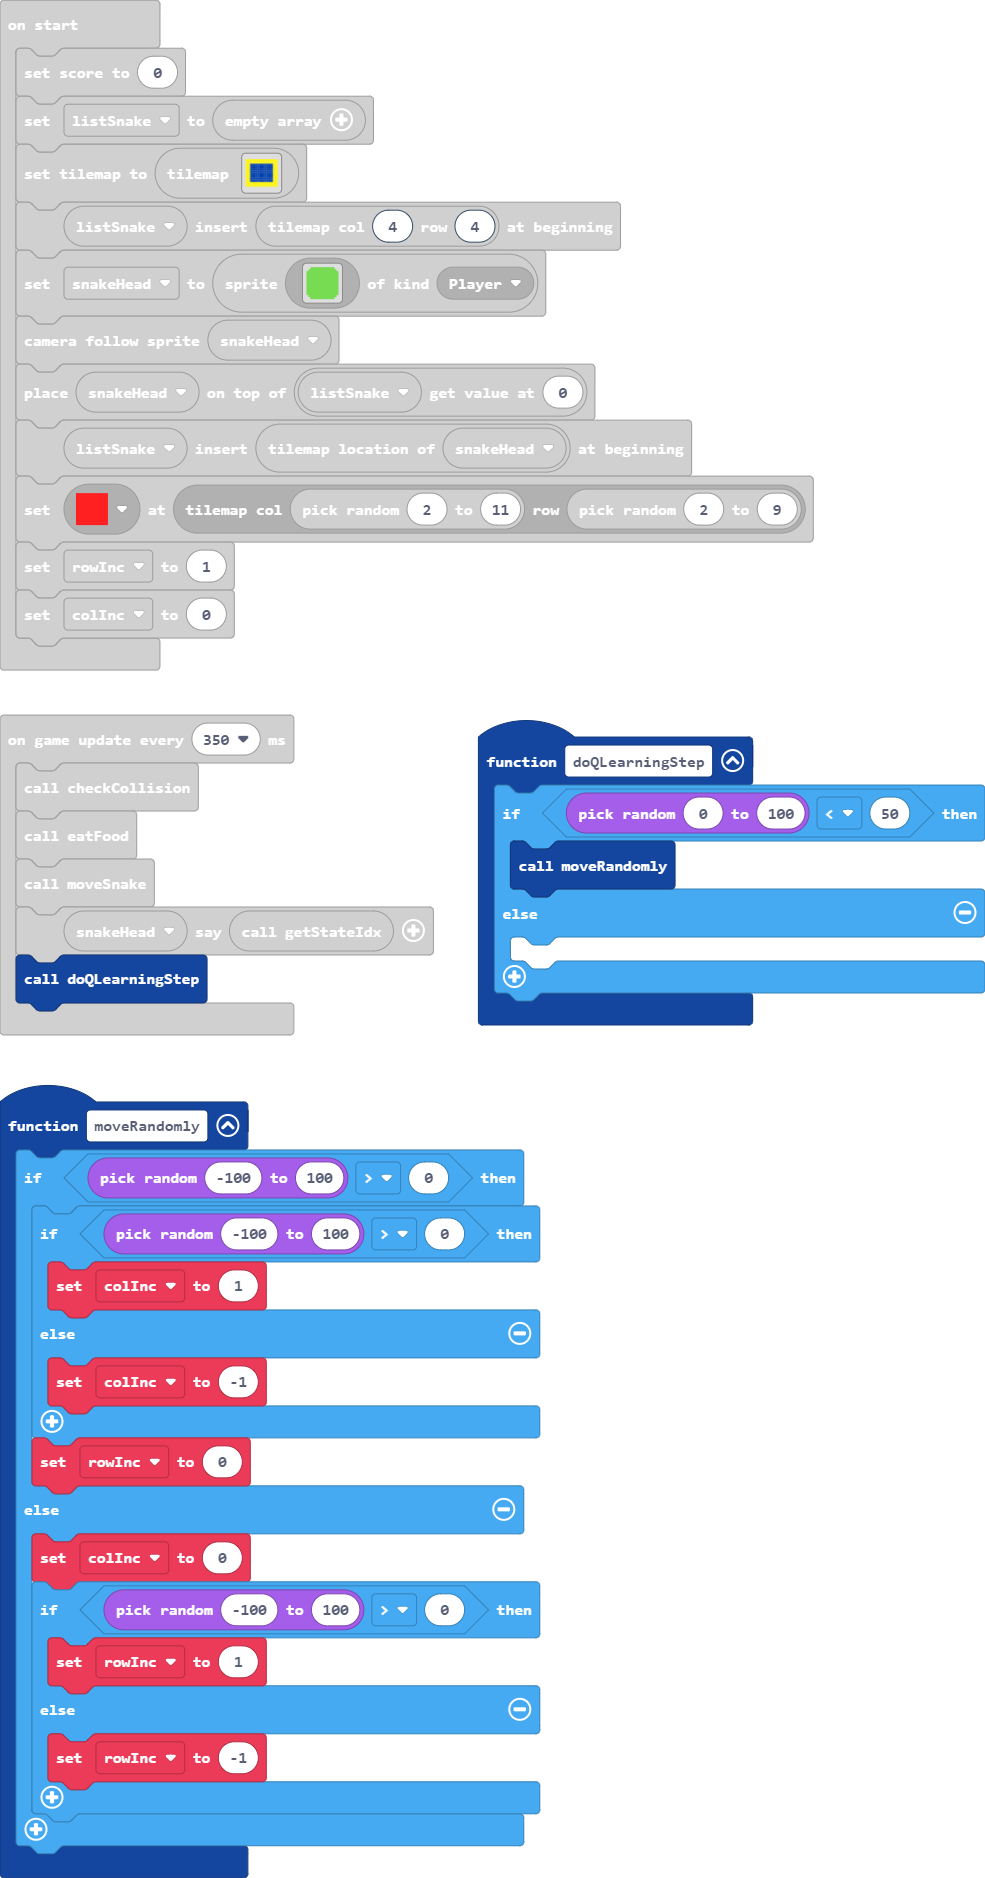
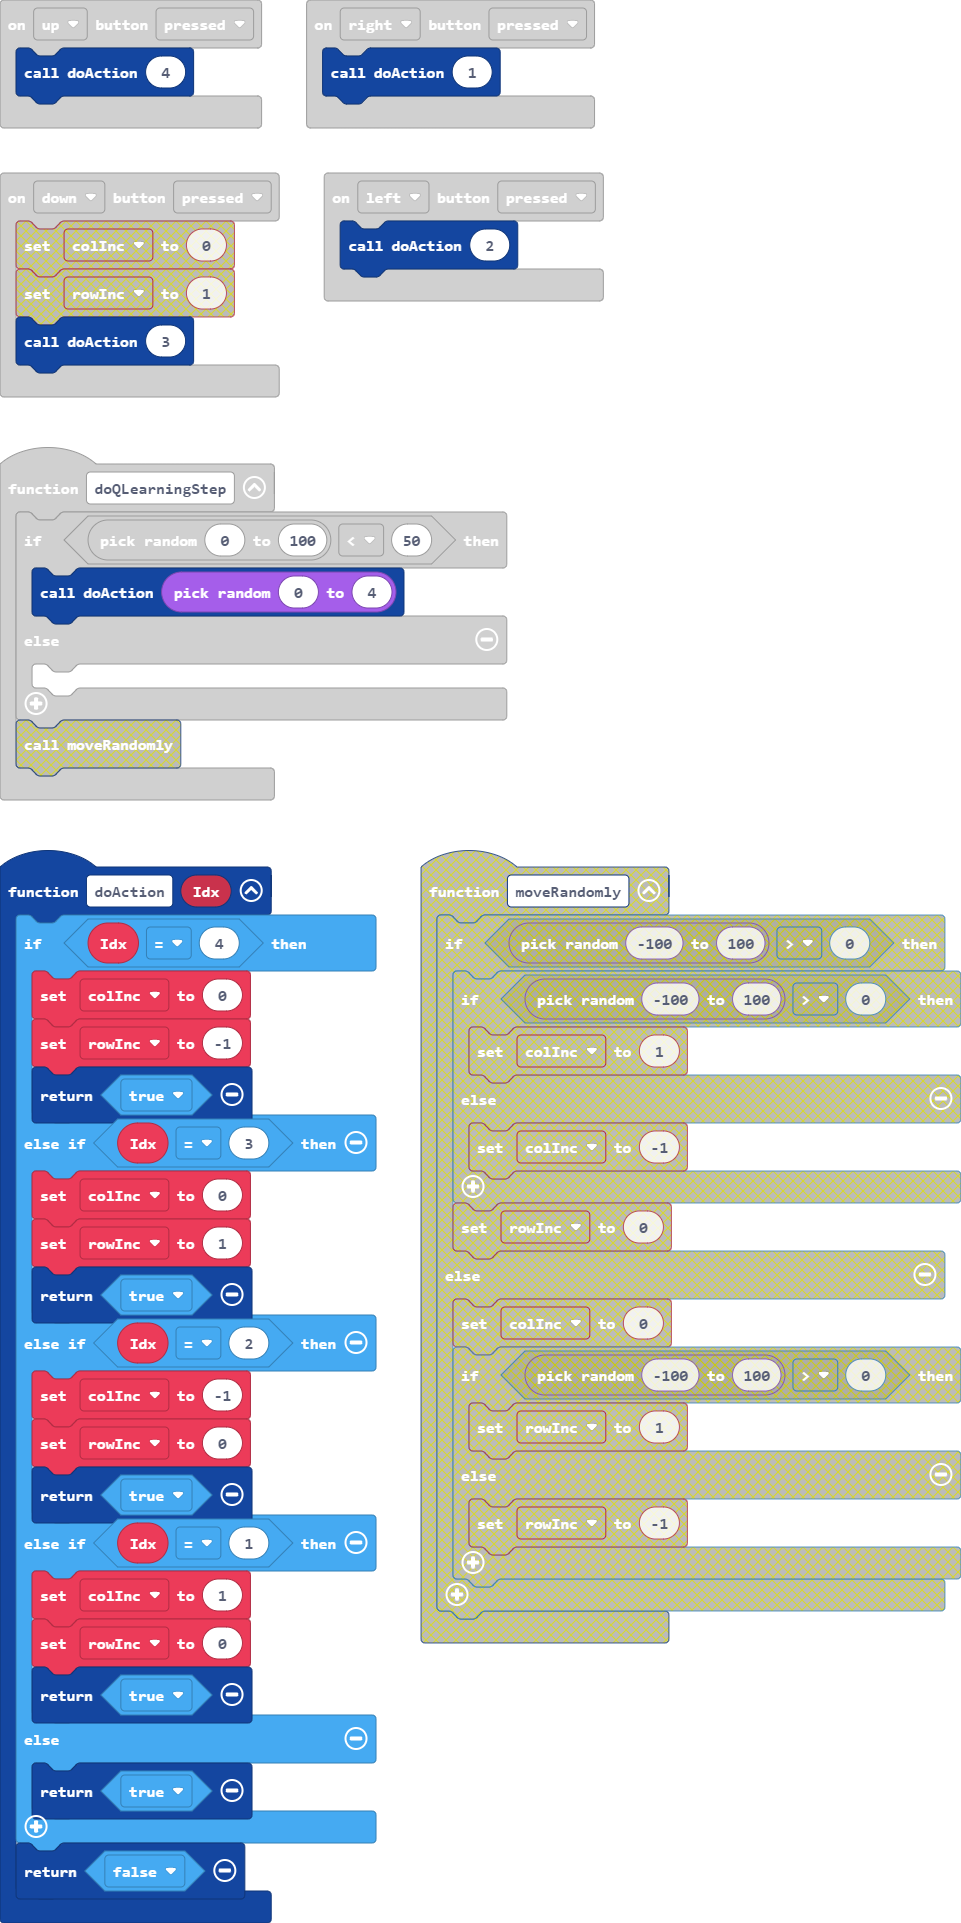
Implement random action states

diff --git a/main.ts b/main.ts
@@ -1,27 +1,8 @@
 controller.up.onEvent(ControllerButtonEvent.Pressed, function () {
-    colInc = 0
-    rowInc = -1
+    doAction(4)
 })
-function moveRandomly () {
-    if (randint(-100, 100) > 0) {
-        if (randint(-100, 100) > 0) {
-            colInc = 1
-        } else {
-            colInc = -1
-        }
-        rowInc = 0
-    } else {
-        colInc = 0
-        if (randint(-100, 100) > 0) {
-            rowInc = 1
-        } else {
-            rowInc = -1
-        }
-    }
-}
 controller.left.onEvent(ControllerButtonEvent.Pressed, function () {
-    colInc = -1
-    rowInc = 0
+    doAction(2)
 })
 function eatFood () {
     if (tiles.tileAtLocationEquals(snakeHead.tilemapLocation(), assets.tile`myTile1`)) {
@@ -38,8 +19,7 @@ function eatFood () {
     }
 }
 controller.right.onEvent(ControllerButtonEvent.Pressed, function () {
-    colInc = 1
-    rowInc = 0
+    doAction(1)
 })
 function getState (colOffset: number, rowOffset: number, basis: number) {
     if (tiles.tileAtLocationEquals(tiles.getTileLocation(snakeHead.tilemapLocation().column + colOffset, snakeHead.tilemapLocation().row + rowOffset), assets.tile`myTile1`)) {
@@ -73,17 +53,38 @@ function checkCollision () {
 }
 function doQLearningStep () {
     if (randint(0, 100) < 50) {
-        moveRandomly()
+        doAction(randint(0, 4))
     } else {
     	
     }
 }
 controller.down.onEvent(ControllerButtonEvent.Pressed, function () {
-    colInc = 0
-    rowInc = 1
+    doAction(3)
 })
 function getStateIdx () {
     return getState(0, 0, 256) + (getState(-1, 0, 64) + (getState(0, 1, 16) + (getState(1, 0, 4) + getState(0, -1, 1))))
+}
+function doAction (Idx: number) {
+    if (Idx == 4) {
+        colInc = 0
+        rowInc = -1
+        return true
+    } else if (Idx == 3) {
+        colInc = 0
+        rowInc = 1
+        return true
+    } else if (Idx == 2) {
+        colInc = -1
+        rowInc = 0
+        return true
+    } else if (Idx == 1) {
+        colInc = 1
+        rowInc = 0
+        return true
+    } else {
+        return true
+    }
+    return false
 }
 let tmpLocation: tiles.Location = null
 let colInc = 0
